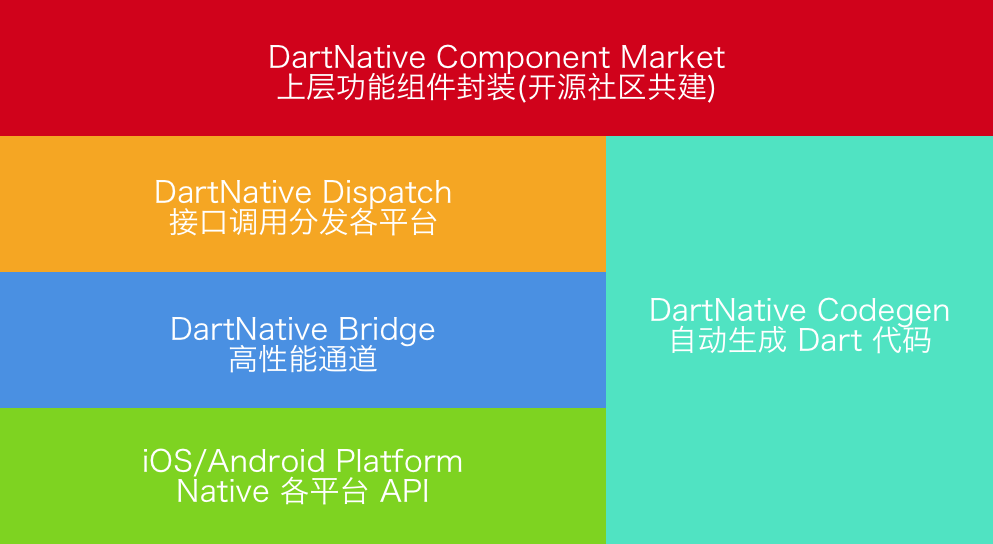
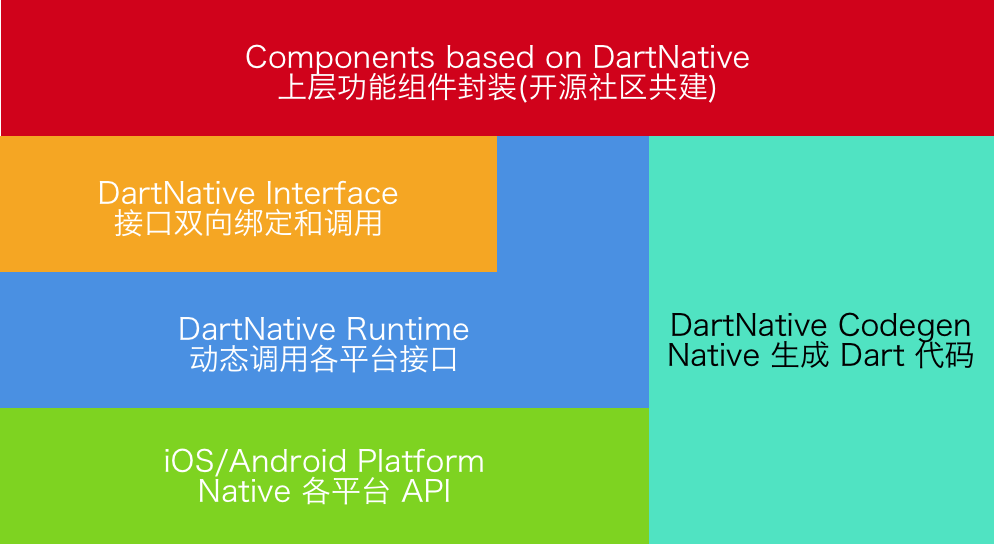
update readme

diff --git a/README.md b/README.md
@@ -1,16 +1,40 @@
 # DartNative
 
-DartNative operates as both a code generator tool and a bridge to communicate between Dart and native APIs.
+DartNative operates as a bridge to communicate between Dart and native APIs.
 
 Replaces the low-performing Flutter channel with faster and more concise code.
-
-* Under development
 
 [![pub package](https://img.shields.io/pub/v/dart_native.svg)](https://pub.dev/packages/dart_native)
 [![Build Status](https://app.travis-ci.com/dart-native/dart_native.svg?branch=master)](https://app.travis-ci.com/dart-native/dart_native)
 [![Dart CI](https://github.com/dart-native/dart_native/actions/workflows/dart.yml/badge.svg)](https://github.com/dart-native/dart_native/actions/workflows/dart.yml)
 
-This package is the blue part(DartNative Bridge):
+## Features
+
+### Dynamic synchronous & asynchronous channeling
+
+DartNative calls *any* native API *dynamically*. It supports both synchronous and asynchronous channeling. 
+
+### Direct call between multi-language interfaces
+
+Serialization of parameters and return values like Flutter Channel is no longer required. DartNative provides direct calls and automatic object marshalling between language interfaces.
+
+### Dart finalizer
+
+Dart finalizer is only supported above Flutter 3(Dart 2.17), but with DartNative it is available in Dart Flutter 2.2.0(Dart 2.13.0) and up.
+
+### Autogenerate succinct bridging code
+
+DartNative supports automatic type conversion so its bridging code is shorter & simpler than the Flutter channel.
+
+A comparison of the task of "checking if an app needs to be installed" is shown below:
+
+| | # of lines of bridging code | Coding complexity |
+| --- | --- | --- |
+| DartNative | Dart 1 + Native 1 | Autogenerated code returns BOOL directly |
+| Channel | Dart 15 + Native 30 | Needs to manually define return format, convert NSNumber to BOOL, determine channel & methodName |
+
+
+The design and vision of this package:
 
 ![](images/dartnative.png)
 
@@ -18,7 +42,7 @@ This package is the blue part(DartNative Bridge):
 
 | DartNative Version | Flutter Requirements | Codegen Version |
 | --- | --- | --- |
-| 0.4.x - 0.6.x | Flutter 2.2.0 (Dart 2.13.0) | 2.x |
+| 0.4.x - 0.7.x | Flutter 2.2.0 (Dart 2.13.0) | 2.x |
 | 0.3.x | Flutter 1.20.0 (Dart 2.9.1) | 1.2.x |
 | 0.2.x | Flutter 1.12.13 (Dart 2.7) | 1.x |
 
@@ -138,6 +162,15 @@ invokeMethod("totalCost", new Object[]{0.123456789, 10, Arrays.asList("hello", "
 );
 ```
 
+#### Dart finalizer
+
+```dart
+final foo = Bar(); // A custom instance.
+unitTest.addFinalizer(() { // register a finalizer callback.
+  print('The instance of \'foo\' has been destroyed!'); // When `foo` is destroyed by GC, this line of code will be executed.
+});
+```
+
 #### Data types support
 
 | Dart | Objective-C | Swift | Java |
@@ -150,7 +183,7 @@ invokeMethod("totalCost", new Object[]{0.123456789, 10, Arrays.asList("hello", "
 | List | NSArray | Array | List, ArrayList |
 | Map | NSDictionary | Dictionary | Map, HashMap |
 | Set | NSSet | Set | Set, HashSet |
-| Function | Block | Closure | - |
+| Function | Block | Closure | Promise(TODO) |
 | Pointer | void * | UnsafeMutableRawPointer | - |
 | NativeByte | NSData | Data | DirectByteBuffer |
 | NativeObject | NSObject | NSObject | Object |
@@ -275,24 +308,6 @@ invokeMethod("totalCost", new Object[]{0.123456789, 10, Arrays.asList("hello", "
 
 NOTE: *If you use dart_native on macOS, you must use `use_frameworks!` in your Podfile.*
 
-## Features
-
-### Dynamic synchronous & asynchronous channeling
-
-DartNative calls *any* native API *dynamically* and supports both synchronous and asynchronous channeling. 
-
-### Autogenerate succinct bridging code
-
-DartNative supports automatic type conversion so its bridging code is shorter & simpler than the Flutter channel.
-
-A comparison of the task of "checking if an app needs to be installed" is shown below:
-
-| | # of lines of bridging code | Coding complexity |
-| --- | --- | --- |
-| DartNative | Dart 1 + Native 1 | Autogenerated code returns BOOL directly |
-| Channel | Dart 15 + Native 30 | Needs to manually define return format, convert INT to BOOL, determine channel & methodName |
-
-### Automatic object marshalling between Dart and native
 ## Documentation
 
 ### Readme
